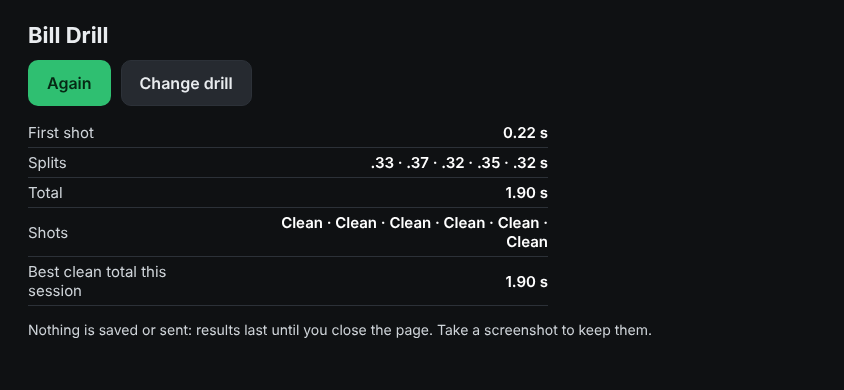
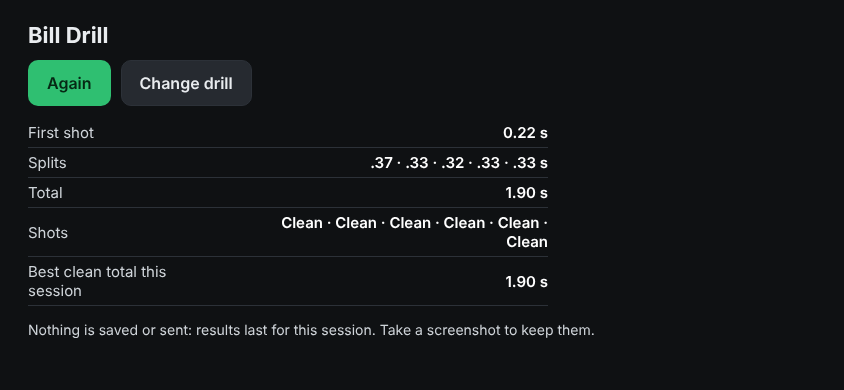
WQ-027: strengthen drill tests, cover beep hold, alarm runs and seed coercion; gate screenshots
Claude-Session: https://claude.ai/code/session_013aLc3vB9FXw7qDu4fx63c5

Changed region(s): [[0.3081, 0.8308, 0.7701, 0.8615], [0.4313, 0.4, 0.6469, 0.4308]]

diff --git a/tests/smoke.js b/tests/smoke.js
@@ -433,7 +433,7 @@ const check = (name, cond, state) => {
   {
     const fs = require('fs');
     const shotDir = path.resolve(__dirname, '..', 'docs', 'screenshots', 'wq-027');
-    fs.mkdirSync(shotDir, { recursive: true });
+    if (process.env.WQ_SCREENSHOTS) fs.mkdirSync(shotDir, { recursive: true });
     const dctx = await browser.newContext({ viewport: { width: W, height: H }, hasTouch: true, isMobile: true });
     const dp = await dctx.newPage();
     dp.on('pageerror', e => errors.push('drill page: ' + e.message));
@@ -462,16 +462,38 @@ const check = (name, cond, state) => {
     // Page-side frame observer: timestamps taken from performance.now() in the frame that first shows the state,
     // not from the engine's dueAt.
     const observe = () => dp.evaluate(() => {
-      window.__obs = { armT: null, beepT: null };
+      window.__obs = { armT: null, beepT: null, shotTs: [], restBackT: null, beeps: 0 };
       if (window.__obsOn) return; window.__obsOn = true;
+      let wasRest = false;
       const f = () => {
         const s = window.__tdt(), n = performance.now(), o = window.__obs;
         if (s.armed && o.armT == null) o.armT = n;
         if (s.drill && s.drill.phase === 'live' && o.beepT == null) o.beepT = n;
+        if (s.drill && s.drill.phase !== 'standby') while (o.shotTs.length < s.drill.shots) o.shotTs.push(n);   // frame that first shows each run shot
+        if (s.onRest && !wasRest) o.restBackT = n;
+        wasRest = s.onRest;
         requestAnimationFrame(f);
       };
       requestAnimationFrame(f);
     });
+    const shoot = p => process.env.WQ_SCREENSHOTS ? dp.screenshot({ path: p }) : null;   // PNGs only on request: npm test leaves the tree clean
+    const sleepMotion = async ms => { const t0 = Date.now(); while (Date.now() - t0 < ms) await dmotion(1); };
+    const slowPress = async () => { await press(); await dmotion(30); };
+    const wobbleD = async (rate, n) => { for (let i = 0; i < n; i++) {
+      const r = i % 2 ? rate : -rate;
+      await dp.evaluate(r => window.dispatchEvent(new DeviceMotionEvent('devicemotion', {
+        rotationRate: { alpha: r, beta: r, gamma: 0 }, acceleration: { x: 0, y: 0, z: 0 }, interval: 16 })), r);
+      await dp.waitForTimeout(16); } };
+    const swingD = async (rate, cond, max = 200) => {
+      for (let i = 0; i < max; i++) {
+        await dp.evaluate(r => window.dispatchEvent(new DeviceMotionEvent('devicemotion', {
+          rotationRate: { alpha: r, beta: 0, gamma: 0 }, acceleration: { x: 0, y: 0, z: 0 }, interval: 16 })), rate);
+        await dp.waitForTimeout(16);
+        if (cond(await dst())) return true;
+      }
+      return false;
+    };
+    const tableRows = () => dp.$$eval('#drillResRows tr', trs => trs.map(tr => [...tr.children].map(td => td.textContent)));
     const waitPhase = async (phase, maxMs) => {
       const t0 = Date.now(); let s;
       while (Date.now() - t0 < maxMs) { await dmotion(1); s = await dst(); if (s.drill && s.drill.phase === phase) return s; }
@@ -532,15 +554,16 @@ const check = (name, cond, state) => {
     check('WQ-027: Bill: after Start the drill is in standby with no shots', d.drill && d.drill.id === 'bill' && d.drill.phase === 'standby' && d.drill.shots === 0 && d.drillRuns === 0, d);
     const line0 = await lineText();
     check('WQ-027: Bill: the drill line names Bill Drill and the wait for the beep', /Bill Drill/.test(line0) && /beep/i.test(line0), line0);
-    await dmotion(15);
+    await sleepMotion(1300);                     // longer than the shortest possible delay (1000 ms), no finger on the frame
     d = await dst();
-    check('WQ-027: Bill: with no finger on the frame the delay has not started (still standby)', d.drill.phase === 'standby' && !d.armed, d);
+    check('WQ-027: Bill: 1.3 s with no finger on the frame: still standby, no beep, not armed (the delay has not started)',
+      d.drill.phase === 'standby' && !d.armed && (await dp.evaluate(() => window.__obs)).beepT === null, d);
     await dtouch('touchStart', [REST]);
     d = await waitPhase('live', 4600);
     const obs = await dp.evaluate(() => window.__obs);
     check('WQ-027: Bill: the beep arrived (phase live) within 4.6 s of arming', d.drill && d.drill.phase === 'live', d);
     const gap = obs.beepT - obs.armT;
-    check(`WQ-027: Bill: beep 1000-4000 ms (+ one frame) after arming, from page timestamps (${Math.round(gap)} ms)`,
+    check(`WQ-027: Bill: beep 1000-4000 ms (+ one frame) after THAT arming (first touch, after the 1.3 s wait), from page timestamps (${Math.round(gap)} ms)`,
       obs.armT != null && obs.beepT != null && gap >= 1000 - 17 && gap <= 4000 + 17, obs);
     const line1 = await lineText();
     check('WQ-027: Bill: the drill line changed at the beep ("Go")', line1 !== line0 && /go/i.test(line1), [line0, line1]);
@@ -560,14 +583,20 @@ const check = (name, cond, state) => {
     check('WQ-027: results table has no Early or With alarm row after a clean run',
       !rows.some(r => /Early/.test(r[0])) && !rows.some(r => /alarm/i.test(r[0] === 'Shots' ? '' : r[0])), rows);
     const res = d.drill.result;
-    check('WQ-027: result.total >= result.first and total = first + the five splits (within rounding)',
-      res && res.total >= res.first && Math.abs(res.total - (res.first + res.splits.reduce((a, b) => a + b, 0))) < 0.01 && res.splits.length === 5 && res.shots.length === 6, res);
+    const obsR = await dp.evaluate(() => window.__obs);
+    const FR = 20;   // one frame (16.7 ms) plus timer jitter: shot times come from the touch event, the observer sees them at the next frame
+    check(`WQ-027: result.first is within one frame of (frame that showed shot 1) - (frame that showed the beep): ${res.first} vs ${(obsR.shotTs[0] - obsR.beepT).toFixed(1)}`,
+      obsR.shotTs.length === 6 && Math.abs(res.first - (obsR.shotTs[0] - obsR.beepT)) <= FR, [res, obsR]);
+    check(`WQ-027: result.total is within one frame of the sixth shot's frame minus the beep's: ${res.total} vs ${(obsR.shotTs[5] - obsR.beepT).toFixed(1)}`,
+      Math.abs(res.total - (obsR.shotTs[5] - obsR.beepT)) <= FR && res.splits.length === 5 && res.shots.length === 6, [res, obsR]);
+    check('WQ-027: every split is within one frame of the gap between the observed shot frames',
+      res.splits.every((x, i) => Math.abs(x - (obsR.shotTs[i + 1] - obsR.shotTs[i])) <= 2 * FR), [res.splits, obsR.shotTs]);
     check('WQ-027: the shown First shot / Total match the result in seconds',
       rowOf('First shot') === (res.first / 1000).toFixed(2) + ' s' && rowOf('Total') === (res.total / 1000).toFixed(2) + ' s', [rows, res.first, res.total]);
-    check('WQ-027: result.first is at least the beep-to-first-press time and no early shot', res.first > 0 && res.early === 0 && res.withAlarm === false, res);
+    check('WQ-027: the clean run has no early shot and is not marked with an alarm', res.first > 0 && res.early === 0 && res.withAlarm === false && res.alarms === 0, res);
     check('WQ-027: Best clean total this session equals this run (first clean run)', rowOf('Best clean total this session') === (res.total / 1000).toFixed(2) + ' s', rows);
     const landscapeResShot = path.join(shotDir, 'results-landscape.png');
-    await dp.screenshot({ path: landscapeResShot });
+    await shoot(landscapeResShot);
     for (const sel of ['#drillAgain', '#drillChange']) {
       const r = await inView(sel, W, H);
       check(`WQ-027: ${sel} is inside the 844x390 viewport on the results overlay`, r === true, r);
@@ -581,7 +610,7 @@ const check = (name, cond, state) => {
       check(`WQ-027: ${sel} is inside the 390x844 viewport on the results overlay`, r === true, r);
     }
     await dp.$eval('#drillResOv', e => { e.scrollTop = 0; });
-    await dp.screenshot({ path: path.join(shotDir, 'results-portrait.png') });
+    await shoot(path.join(shotDir, 'results-portrait.png'));
     await dp.setViewportSize({ width: W, height: H }); await dp.waitForTimeout(250);
 
     // --- 6. Again
@@ -591,6 +620,12 @@ const check = (name, cond, state) => {
     check('WQ-027: Again hides the results and starts a new run in standby; the run count stays 1',
       !d.drillResOpen && d.drill.phase === 'standby' && d.drill.shots === 0 && d.drillRuns === 1 && d.running, d);
     check('WQ-027: Again: the engine is no longer paused', (await dmotion(3), (await dst()).paused === false));
+    // Pausing before the finger ever touched the frame: the delay never started, so nothing is cancelled (D-102/D-104).
+    await dp.click('#gear'); await dp.waitForTimeout(120);
+    await dp.click('#doneBtn'); await dp.waitForTimeout(100);
+    d = await dst();
+    check('WQ-027: gear before any touch: back in standby, and the status line does NOT say Cancelled',
+      d.drill.phase === 'standby' && !/cancel/i.test(await lineText()) && /beep/i.test(await lineText()), [d.drill, await lineText()]);
 
     // --- 7. early shot: one press right after arming, before the beep
     await observe();
@@ -616,19 +651,23 @@ const check = (name, cond, state) => {
     // --- 8. pause cancels: standby, then live
     await dtouch('touchEnd', []);
     await dp.click('#drillAgain'); await dp.waitForTimeout(100);
-    await dtouch('touchStart', [REST]); await dmotion(3);
+    await dtouch('touchStart', [REST]); await dmotion(6);       // delay started: finger on the frame >= 100 ms, beep not yet possible
+    d = await dst();
+    check('WQ-027: standby with the delay started (finger on the frame, no beep yet)', d.drill.phase === 'standby' && d.armed && d.onRest, d);
     await dp.click('#gear'); await dp.waitForTimeout(120);
     d = await dst();
-    check('WQ-027: gear in standby: settings open, drill back in standby with no shots, engine paused',
+    check('WQ-027: gear after the delay started: settings open, drill back in standby with no shots, engine paused',
       await dp.$eval('#settingsOv', e => e.classList.contains('show')) && d.drill.phase === 'standby' && d.drill.shots === 0 && d.paused, d);
     await dp.click('#doneBtn'); await dp.waitForTimeout(100);
-    check('WQ-027: after Resume the drill line says the run was cancelled and to restart',
-      /cancel/i.test(await lineText()) && /restart/i.test(await lineText()), await lineText());
+    check('WQ-027: after Resume the status line says Cancelled and to restart',
+      /^Cancelled/.test(await lineText()) && /restart/i.test(await lineText()), await lineText());
     await dtouch('touchEnd', []); await dmotion(2);
     await observe();
     await dtouch('touchStart', [REST]);
     d = await waitPhase('live', 4600);
-    check('WQ-027: after a cancel the next run beeps again', d.drill.phase === 'live', d);
+    const obsC = await dp.evaluate(() => window.__obs), gapC = obsC.beepT - obsC.armT;
+    check(`WQ-027: after a cancel the beep comes 1000-4000 ms (+ a frame) after the NEW arming (${Math.round(gapC)} ms): the delay was redrawn`,
+      d.drill.phase === 'live' && gapC >= 1000 - 17 && gapC <= 4000 + 17, [obsC, d]);
     await press(); await press();
     d = await dst();
     check('WQ-027: live run with two shots fired before pausing', d.drill.shots === 2, d);
@@ -638,7 +677,7 @@ const check = (name, cond, state) => {
     check('WQ-027: gear mid-run cancels it: standby, 0 shots, early 0, no result, run count unchanged',
       d.drill.phase === 'standby' && d.drill.shots === 0 && d.drill.early === 0 && d.drill.result === null && d.drillRuns === 2, d);
     await dp.click('#doneBtn'); await dp.waitForTimeout(100);
-    check('WQ-027: the drill line mentions the cancel after Resume', /cancel/i.test(await lineText()), await lineText());
+    check('WQ-027: the status line says Cancelled after Resume', /^Cancelled/.test(await lineText()), await lineText());
     await dtouch('touchStart', [REST]);
     d = await waitPhase('live', 4600);
     check('WQ-027: the beep clears the cancelled note ("Go")', /go/i.test(await lineText()) && !/cancel/i.test(await lineText()), await lineText());
@@ -671,6 +710,77 @@ const check = (name, cond, state) => {
     await dp.evaluate(() => { try { localStorage.setItem('tdt.drill', 'box'); } catch (e) {} });
     await dp.reload();
     check('WQ-027: a stored not-ready drill id falls back to Freestyle', (await dst()).drillSel === 'freestyle' && /Freestyle/.test(await dp.textContent('#drillBtn')));
+    await dp.click('#drillBtn');
+    const idsBox = await dp.$$eval('#drillList .drillOpt', els => els.map(e => e.dataset.id));
+    check("WQ-027: with tdt.drill = 'box' stored the picker lists only freestyle and bill, Freestyle highlighted",
+      JSON.stringify(idsBox) === '["freestyle","bill"]' && await dp.$eval('#drillList .drillOpt.sel', e => e.dataset.id) === 'freestyle', idsBox);
+    await dp.click('#drillCancelBtn');
+    await dp.evaluate(() => { try { localStorage.setItem('tdt.drill', 'bill'); } catch (e) {} });
+    await dp.reload();
+
+
+    // --- 10b. a run with an alarm, in a fresh session (the run count starts at 0)
+    await dp.click('#startBtn'); await dp.waitForTimeout(150);
+    await observe();
+    await dtouch('touchStart', [REST]);
+    d = await waitPhase('live', 4600);
+    check('WQ-027: alarm run: the beep came', d.drill && d.drill.phase === 'live', d);
+    await dtouch('touchEnd', []); await dmotion(30);
+    await wobbleD(80, 15); d = await dst();
+    check('WQ-027: alarm run: moving off the frame after the beep alarms', d.alarmActive && d.alarmReason === 'move' && d.drill.phase === 'live', d);
+    for (let i = 0; i < 6; i++) await press();
+    d = await dst();
+    check('WQ-027: alarm run: six shots fired in the alarm still count; the alarm is still on', d.drill.phase === 'finishing' && d.drill.shots === 6 && d.alarmActive, d);
+    await dtouch('touchStart', [REST]); await dmotion(4); d = await dst();
+    const alarmRes = d.drill.result, alarmRows = await tableRows();
+    check('WQ-027: alarm run: results open, withAlarm true, one alarm episode', d.drillResOpen && alarmRes.withAlarm === true && alarmRes.alarms === 1, d);
+    check('WQ-027: alarm run: the table has a With alarm row, and every shot fired in the alarm reads alarm',
+      alarmRows.some(r => r[0] === 'With alarm') && (alarmRows.find(r => r[0] === 'Shots') || [])[1] === 'alarm · alarm · alarm · alarm · alarm · alarm', alarmRows);
+    check('WQ-027: alarm run: Best clean total is a dash when the only run had an alarm', (alarmRows.find(r => /^Best clean/.test(r[0])) || [])[1] === '—', alarmRows);
+
+    // --- 10c. deferred beep: finger off the frame past the longest delay, then back
+    await dtouch('touchEnd', []);
+    await dp.click('#drillAgain'); await dp.waitForTimeout(100);
+    await observe();
+    await dtouch('touchStart', [REST]); await dmotion(3);
+    await dtouch('touchEnd', []);
+    await sleepMotion(4400);                      // longer than the longest delay (4000 ms): the beep is due, the finger is off
+    d = await dst();
+    check('WQ-027: deferred beep: finger off the frame past the due time: no beep, still standby, no alarm', d.drill.phase === 'standby' && !d.alarmActive && (await dp.evaluate(() => window.__obs.beepT)) === null, d);
+    await dtouch('touchStart', [REST]);
+    for (let i = 0; i < 30 && (await dp.evaluate(() => window.__obs.beepT)) === null; i++) await dmotion(1);
+    const obsD = await dp.evaluate(() => window.__obs), holdD = obsD.beepT - obsD.restBackT;
+    check(`WQ-027: deferred beep: it plays 350 ms after the finger returns (${Math.round(holdD)} ms), never in the first 333 ms`,
+      obsD.beepT !== null && obsD.restBackT !== null && holdD >= 350 - 17 && holdD <= 350 + 100, obsD);
+    for (let i = 0; i < 6; i++) await slowPress();
+    await dtouch('touchStart', [REST]); await dmotion(4); d = await dst();
+    const cleanRes = d.drill.result, cleanRows = await tableRows();
+    check('WQ-027: clean run after an alarm run: not withAlarm, 2 runs', d.drillResOpen && d.drillRuns === 2 && !cleanRes.withAlarm && cleanRes.alarms === 0, d);
+    check(`WQ-027: Best clean total is this clean run (${cleanRes.total}), not the faster alarm run (${alarmRes.total})`,
+      alarmRes.total < cleanRes.total && (cleanRows.find(r => /^Best clean/.test(r[0])) || [])[1] === (cleanRes.total / 1000).toFixed(2) + ' s', [cleanRows, alarmRes.total, cleanRes.total]);
+
+    // --- 10d. a 180 alarm already sounding at the beep marks the run (D-104)
+    await dtouch('touchEnd', []);
+    await dp.click('#drillAgain'); await dp.waitForTimeout(100);
+    await dmotion(3);
+    await dp.click('#downrangeBtn'); await dmotion(3);
+    check('WQ-027: 180 run: Set downrange took', (await dst()).refSet === true);
+    check('WQ-027: 180 run: swung past 90 degrees with no finger on the frame (unarmed: no alarm yet)',
+      await swingD(-120, x => x.dev180 > 95) && !(await dst()).alarmActive);
+    await observe();
+    await dtouch('touchStart', [REST]);
+    d = await waitPhase('live', 4600);
+    check('WQ-027: 180 run: the beep came with the 180 alarm sounding', d.drill.phase === 'live' && d.alarmActive && d.alarmReason === '180', d);
+    await swingD(120, x => x.dev180 < 30); await dmotion(5); d = await dst();
+    check('WQ-027: 180 run: back downrange with the finger on the frame clears the alarm', !d.alarmActive && d.onRest && d.drill.phase === 'live', d);
+    for (let i = 0; i < 6; i++) await press();
+    await dtouch('touchStart', [REST]); await dmotion(4); d = await dst();
+    const r180 = d.drill.result;
+    check('WQ-027: 180 run: result.withAlarm is true with one alarm (counted at the beep), shots graded normally',
+      d.drillResOpen && r180.withAlarm === true && r180.alarms === 1 && r180.shots.every(x => !x.unsafe), r180);
+    check('WQ-027: 180 run: the table has a With alarm row', (await tableRows()).some(r => r[0] === 'With alarm'));
+    await dtouch('touchEnd', []);
+    await dp.reload();
     await dp.evaluate(() => { try { localStorage.setItem('tdt.drill', 'bill'); } catch (e) {} });
     await dp.reload();
 
@@ -678,7 +788,7 @@ const check = (name, cond, state) => {
     for (const [name, vw, vh] of [['landscape', W, H], ['portrait', H, W]]) {
       await dp.setViewportSize({ width: vw, height: vh }); await dp.waitForTimeout(250);
       await dp.$eval('#startOv', e => { e.scrollTop = 0; e.querySelector('.inner').scrollTop = 0; });
-      await dp.screenshot({ path: path.join(shotDir, `start-${name}.png`) });
+      await shoot(path.join(shotDir, `start-${name}.png`));
       const startReach = await inView('#startBtn', vw, vh);
       const drillBtnReach = await inView('#drillBtn', vw, vh);
       check(`WQ-027: ${vw}x${vh}: #startBtn and #drillBtn are fully inside the viewport`, startReach === true && drillBtnReach === true, [startReach, drillBtnReach]);
@@ -686,7 +796,7 @@ const check = (name, cond, state) => {
       await dp.click('#drillBtn'); await dp.waitForTimeout(150);
       check(`WQ-027: ${vw}x${vh}: picker open with Bill highlighted`, (await dst()).pickerOpen && await dp.$eval('#drillList .drillOpt.sel', e => e.dataset.id) === 'bill');
       await dp.$eval('#drillOv', e => { e.scrollTop = 0; });
-      await dp.screenshot({ path: path.join(shotDir, `picker-${name}.png`) });
+      await shoot(path.join(shotDir, `picker-${name}.png`));
       const reach = [];
       for (const sel of ['#drillChoose', '#drillCancelBtn']) reach.push(await inView(sel, vw, vh));
       check(`WQ-027: ${vw}x${vh}: #drillChoose and #drillCancelBtn are reachable and not clipped`, reach.every(r => r === true), reach);

diff --git a/tests/replay.js b/tests/replay.js
@@ -38,6 +38,8 @@ function summarize(res) {
     drillBeeps: ev.filter(e => e.type === 'drillBeep').length,
     drillEnds: ev.filter(e => e.type === 'drillEnd').length,
     drillCancels: ev.filter(e => e.type === 'drillCancel').length,
+    okTs: ev.filter(e => e.type === 'ok').map(e => e.t),
+    runs: res.state.drillRuns,
     firstArmedT: (ev.find(e => e.type === 'armed') || {}).t,
     beepT: (ev.find(e => e.type === 'drillBeep') || {}).t,
     shotTimes: ev.filter(e => e.type === 'shot').map(e => e.t),
@@ -134,11 +136,12 @@ if (billFile) {
   t('replaying twice gives identical packed events', JSON.stringify(a.packed) === JSON.stringify(b.packed) && a.packed.length > 0);
   const rIdx = rec.log.findIndex(r => r[0] === 'r');
   t('the log carries one r row, right after the opening p row', rec.log.filter(r => r[0] === 'r').length === 1 && rIdx === 1 && rec.log[rIdx][2] === 'bill');
-  const other = JSON.parse(JSON.stringify(rec));
-  other.log[rIdx][3] = (rec.log[rIdx][3] + 12345) >>> 0;
-  const c = TDT.replay(other);
   const beepOf = res => (res.events.find(e => e.type === 'drillBeep') || {}).t;
-  t(`a different seed gives a different beep time (${beepOf(a)} vs ${beepOf(c)})`, beepOf(c) !== undefined && beepOf(a) !== undefined && beepOf(c) !== beepOf(a));
+  // The seeded due time can fall inside the finger-off window (the beep is then deferred to the same time), so
+  // try seeds until one gives a beep; require one that differs from the original and several distinct beep times.
+  const tries = [rec.log[rIdx][3] + 12345, 1, 2, 3, 4, 5, 99, 1234].map(sd => { const o = JSON.parse(JSON.stringify(rec)); o.log[rIdx][3] = sd >>> 0; return beepOf(TDT.replay(o)); });
+  t(`a different seed gives a different beep time (original ${beepOf(a)}; others ${tries.map(Math.round).join(', ')})`,
+    beepOf(a) !== undefined && tries.every(x => x !== undefined) && tries.some(x => x !== beepOf(a)) && new Set(tries).size >= 3);
   const run = a.state.drillRuns[0], shots = a.events.filter(e => e.type === 'shot').map(e => e.t), beep = beepOf(a);
   t('one finished run in state.drillRuns', a.state.drillRuns.length === 1 && !!run);
   const near = (x, y) => Math.abs(x - y) < 0.01;   // result values are rounded to 4 decimals (r4)
@@ -147,6 +150,29 @@ if (billFile) {
   t(`result.total equals shot 6 minus the beep (${run && run.total}) and first + splits`, !!run && near(run.total, shots[5] - beep) && near(run.total, run.first + run.splits.reduce((x, y) => x + y, 0)));
   const endEv = a.events.find(e => e.type === 'drillEnd');
   t('drillEnd carries the same total', !!endEv && near(endEv.result.total, run.total));
+  // WQ-027 stage 4: the seed is coerced with >>> 0 (0, 2^32 - 1, 1.5 and -1 behave as their unsigned 32-bit values).
+  const beepWithSeed = sd => { const r2 = JSON.parse(JSON.stringify(rec)); r2.log[rIdx][3] = sd; return beepOf(TDT.replay(r2)); };
+  for (const [raw, coerced] of [[0, 0], [4294967295, 4294967295], [1.5, 1], [-1, 4294967295], [4294967296, 0]]) {
+    const x = beepWithSeed(raw), y = beepWithSeed(coerced);
+    t(`seed ${raw} gives the same beep time as ${coerced} (${x})`, x !== undefined && x === y);
+  }
+  // Engine-level: startDrill while live cancels once; startDrill in ended cancels nothing; one without a started delay cancels nothing.
+  {
+    const evs = [], eng = TDT.createEngine(Object.assign({}, TDT.DEFAULTS), { onEvent: e => evs.push(e) });
+    const cancels = () => evs.filter(e => e.type === 'drillCancel').length;
+    eng.setPaused(false, 0);
+    t('startDrill on an engine with no run returns true and emits no cancel', eng.startDrill(0, 'bill', 5) === true && cancels() === 0);
+    eng.startDrill(1, 'bill', 6);
+    t('startDrill over a standby run whose delay never started emits no drillCancel (D-102)', cancels() === 0);
+    eng.touches(10, [{ id: 1, cx: (TDT.ZONES.rest.x + TDT.ZONES.rest.w / 2) * 844, cy: (TDT.ZONES.rest.y + TDT.ZONES.rest.h / 2) * 390, rx: 0, ry: 0 }], 844, 390);
+    let T = 10; while (T < 6000 && eng.state.drill.phase === 'standby') { T += 17; eng.motion({ t: T, rot: [0, 0, 0], acc: [0, 0, 0] }); eng.tick(T); }
+    t(`the beep came (phase ${eng.state.drill.phase})`, eng.state.drill.phase === 'live' && evs.filter(e => e.type === 'drillBeep').length === 1);
+    eng.startDrill(T + 1, 'bill', 7);
+    t('startDrill while live emits exactly one drillCancel', cancels() === 1 && evs.filter(e => e.type === 'drillCancel')[0].drill === 'bill');
+    eng.state.drill.phase = 'ended';   // a finished run (state poked directly: the result path is covered by the recordings)
+    eng.startDrill(T + 2, 'bill', 8);
+    t('startDrill over an ended run emits no further drillCancel', cancels() === 1);
+  }
   const seeds = [1, 2, 3, 4, 5, 99, 123456, 4294967295].map(sd => { const r2 = JSON.parse(JSON.stringify(rec)); r2.log[rIdx][3] = sd; return beepOf(TDT.replay(r2)) - a.events.find(e => e.type === 'armed').t; });
   t(`beep falls 1000-4000 ms (+1 frame) after arming for 8 seeds (${seeds.map(x => Math.round(x)).join(', ')})`, seeds.every(x => x >= 1000 && x <= 4000 + 17));
 }

diff --git a/tests/expectations.js b/tests/expectations.js
@@ -51,18 +51,29 @@ module.exports = {
     ['no 180 alarm while within 90° of downrange', r.b180 === 0],
     ['no alarm at all (finger stays on the frame)', r.alarms === 0],
   ],
-  // WQ-027: Bill Drill. The log starts a run ('r' row) with the finger already on the frame, so the beep comes
-  // 1000-4000 ms after the first armed event (plus up to one 17 ms frame); six presses follow, finger back at the end.
-  'drill-bill': r => [
-    ['exactly one start beep', r.drillBeeps === 1],
-    ['exactly one drill end', r.drillEnds === 1],
-    ['no drill cancel', r.drillCancels === 0],
-    ['at least six shots', r.shots.length >= 6],
-    ['no alarm', r.alarms === 0],
-    ['the beep falls 1000-4000 ms (+ one frame) after the first armed event',
-      r.beepT !== undefined && r.firstArmedT !== undefined && r.beepT - r.firstArmedT >= 1000 && r.beepT - r.firstArmedT <= 4000 + 17],
-    ['every one of the six run shots comes after the beep', r.shotTimes.length >= 6 && r.shotTimes.slice(0, 6).every(t => t > r.beepT)],
-  ],
+  // WQ-027: Bill Drill. The log starts a run ('r' row) with the finger on the frame; it lifts off for 0.7 s covering the
+  // seeded due time (1.43 s after arming), so the beep is deferred: it plays only once the finger has been back on the
+  // frame 350 ms (D-104), i.e. >= 350 ms after the OK tone, never in the OK tone's tick.
+  'drill-bill': r => {
+    const run = r.runs[0], bt = r.beepT, shots6 = r.shotTimes.slice(0, 6);
+    const okBefore = r.okTs.filter(t => t <= bt);
+    return [
+      ['exactly one start beep', r.drillBeeps === 1],
+      ['exactly one drill end', r.drillEnds === 1],
+      ['no drill cancel', r.drillCancels === 0],
+      ['at least six shots', r.shots.length >= 6],
+      ['no alarm', r.alarms === 0],
+      ['one finished run with six shots, no early shot, no alarm', r.runs.length === 1 && run.shots.length === 6 && run.early === 0 && run.alarms === 0 && run.withAlarm === false],
+      ['the beep falls 1000-4000 ms (+ one frame) after the first armed event',
+        bt !== undefined && r.firstArmedT !== undefined && bt - r.firstArmedT >= 1000 && bt - r.firstArmedT <= 4000 + 17],
+      ['the beep was deferred past the finger-off window: 2250-2317 ms after arming (return + 350 ms hold)',
+        bt !== undefined && bt - r.firstArmedT >= 2250 && bt - r.firstArmedT <= 2300 + 17],
+      ['the beep comes at least 350 ms after the OK tone of the finger returning',
+        okBefore.length >= 1 && bt - okBefore[okBefore.length - 1] >= 350],
+      ['all six run shots come after the beep and are the first six shots', shots6.length === 6 && shots6.every(t => t > bt) && r.shotTimes.every(t => t > bt)],
+      ['result.first is the first shot minus the beep', !!run && Math.abs(run.first - (shots6[0] - bt)) < 0.01],
+    ];
+  },
   'axis-up': r => [
     ['largest excursion reads as muzzle UP', dominant(r.peak, 'v', +1)],
   ],

diff --git a/tests/roundtrip.js b/tests/roundtrip.js
@@ -175,10 +175,19 @@ const check = (name, cond, extra) => {
   const endB = recB.observed.find(o => o[1] === 'drillEnd');
   check('WQ-027: Bill recording: the replayed result total matches the live drillEnd total',
     resB.state.drillRuns.length === 1 && Math.abs(resB.state.drillRuns[0].total - endB[3]) < 0.001 && endB[2] === 'bill', [resB.state.drillRuns, endB]);
-  check('WQ-027: Bill recording: a different seed changes the beep time',
-    (() => { const r2 = JSON.parse(JSON.stringify(recB)); const i = r2.log.findIndex(r => r[0] === 'r'); r2.log[i][3] = (r2.log[i][3] + 777) >>> 0;
-      const b1 = resB.events.find(e => e.type === 'drillBeep'), b2 = TDT.replay(r2).events.find(e => e.type === 'drillBeep');
-      return b1 && (!b2 || b2.t !== b1.t); })());
+  check('WQ-027: Bill recording: the results overlay paused the engine and no drillCancel was observed (0 events)',
+    liveB.paused === true && recB.observed.filter(o => o[1] === 'drillCancel').length === 0, [liveB.paused, recB.observed.filter(o => /drill/.test(o[1]))]);
+  {
+    // Another seed must give a beep too (the delay fits the log), at a different time than the recorded one.
+    const b1 = resB.events.find(e => e.type === 'drillBeep'), i = recB.log.findIndex(r => r[0] === 'r');
+    let b2 = null, used = null;
+    for (const add of [777, 1001, 2003, 3001, 5003, 8009]) {
+      const r2 = JSON.parse(JSON.stringify(recB)); r2.log[i][3] = (r2.log[i][3] + add) >>> 0;
+      const e = TDT.replay(r2).events.find(x => x.type === 'drillBeep');
+      if (e && e.t !== b1.t) { b2 = e; used = add; break; }
+    }
+    check(`WQ-027: Bill recording: another seed gives a beep too, at a different time (${b1 && b1.t} vs ${b2 && b2.t}, seed + ${used})`, !!b1 && !!b2 && b2.t !== b1.t);
+  }
   check('no page errors', errors.length === 0, errors);
 
   await browser.close();

diff --git a/tests/make-synthetic.js b/tests/make-synthetic.js
@@ -62,10 +62,12 @@ const S = {
   // Bill Drill (WQ-027): drillAt 0 logs an 'r' row (fixed seed) right after the opening 'p' row. Finger on the frame from
   // 0 s, the beep falls 1-4 s after arming, so six presses start at 5.2 s (touch the trigger, slide 70 px rearward over
   // 0.25 s, lift at +0.35 s, next press 0.5 s after the last one started), then the finger goes back on the frame.
+  // The finger is also off the frame from 1.2 s to 1.9 s: with this seed the beep is due 1.43 s after arming, inside that window,
+  // so it is deferred until the finger has been back DRILL_BEEP_HOLD_MS (350 ms): 2.25 s <= beep < 2.3 s + one frame after arming.
   'drill-bill': {
     dur: 9.6, drillAt: 0, drillSeed: 20261025,
     touches: t => {
-      if (t < 5.2) return [REST];
+      if (t < 5.2) return t >= 1.2 && t < 1.9 ? [] : [REST];
       const i = Math.floor((t - 5.2) / 0.5), u = (t - 5.2) - i * 0.5;
       if (i >= 6) return t >= 8.2 ? [REST] : [];
       return u < 0.35 ? [Object.assign({}, TRG, { cx: TRG.cx - Math.max(0, Math.min(1, (u - 0.05) / 0.25)) * 70 })] : [];
